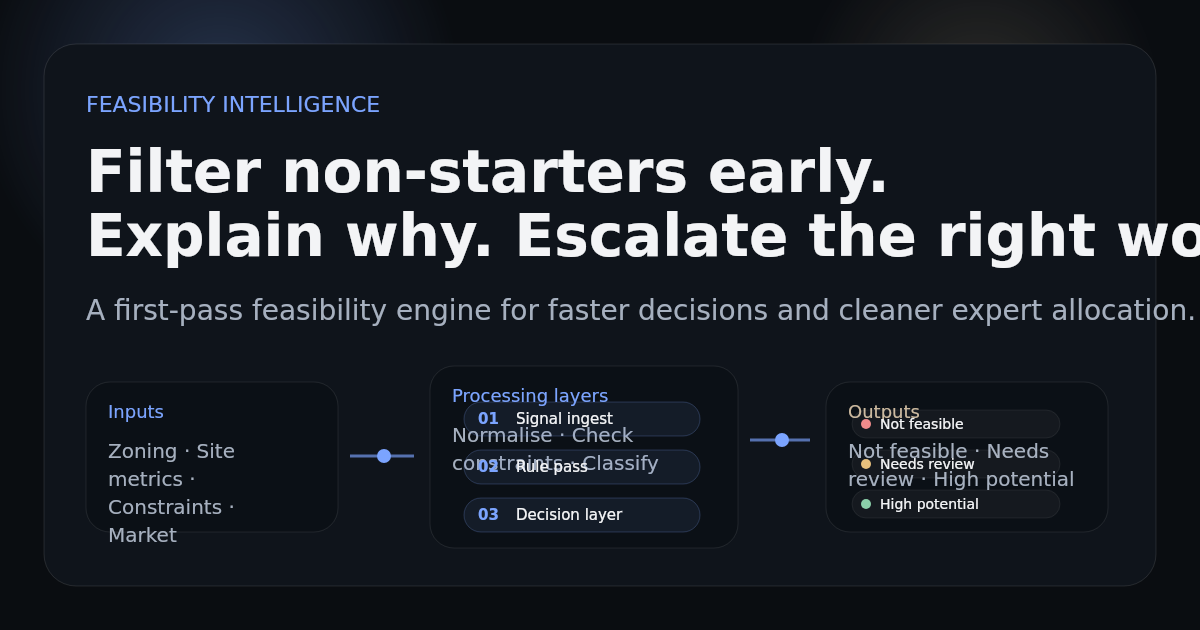
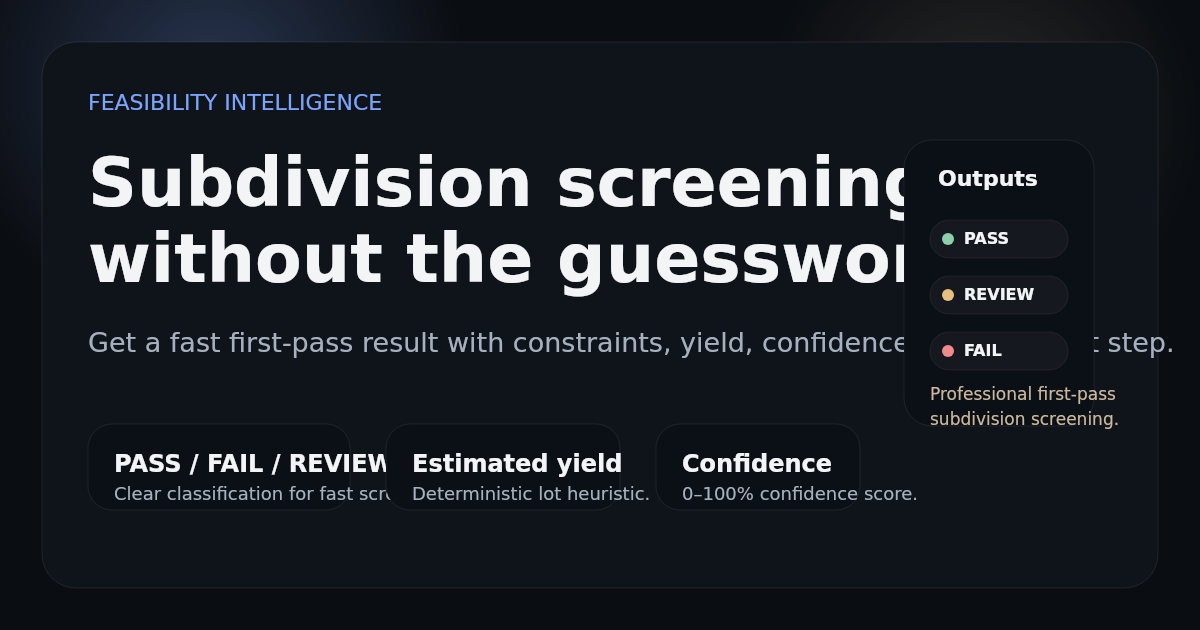
refactor: polish social preview card messaging

diff --git a/app/layout.tsx b/app/layout.tsx
@@ -2,7 +2,7 @@ import type { Metadata } from 'next';
 import './globals.css';
 
 const title = 'Feasibility Intelligence';
-const description = 'Filter non-starters early, explain why, and surface the opportunities worth expert time.';
+const description = 'Fast first-pass subdivision screening with clear constraints, yield, confidence, and next-step recommendations.';
 const siteUrl = 'https://feasibility-intelligence.thedeploylab.au';
 const imageUrl = `${siteUrl}/og/feasibility-intelligence-preview.png`;
 
